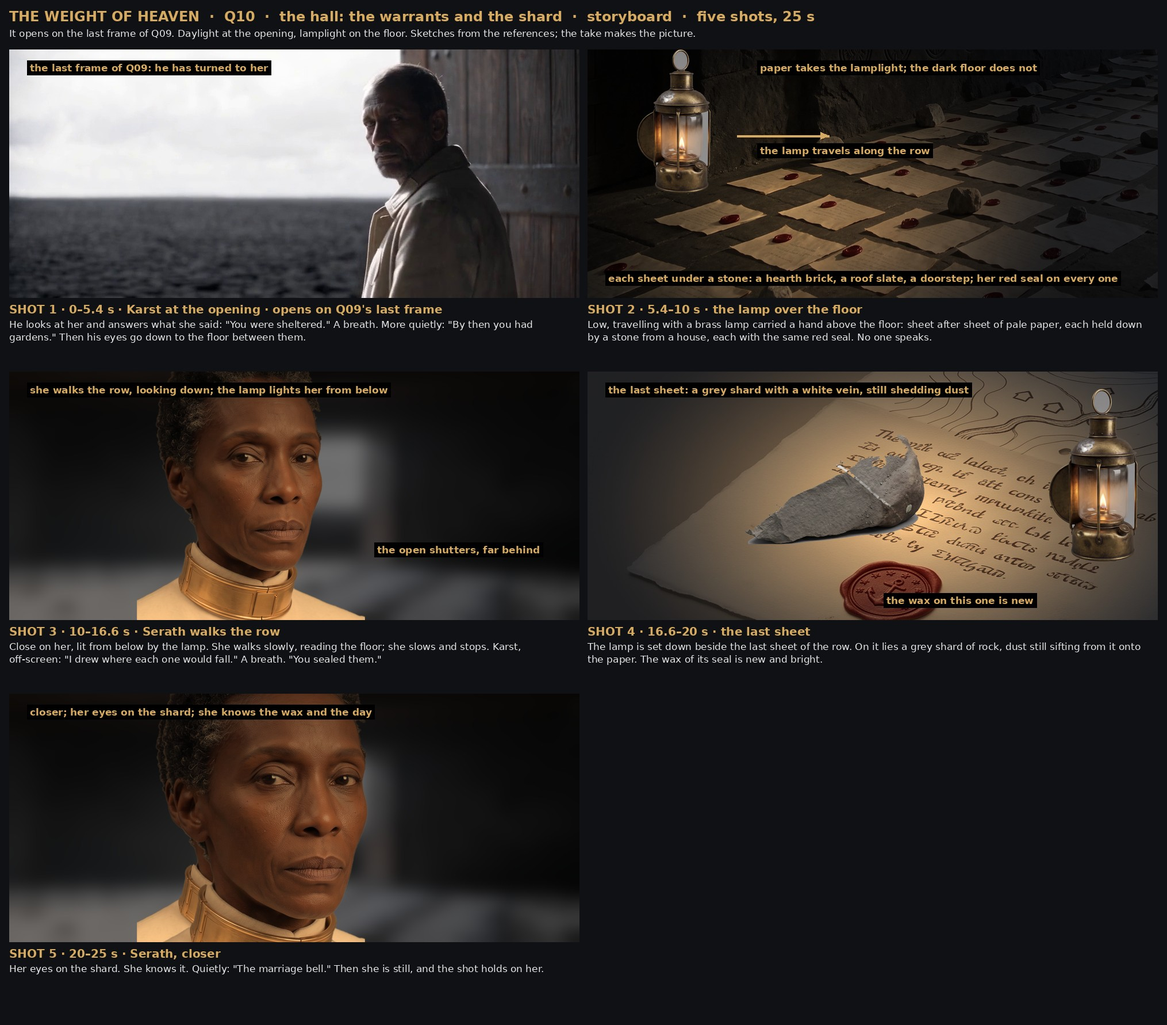
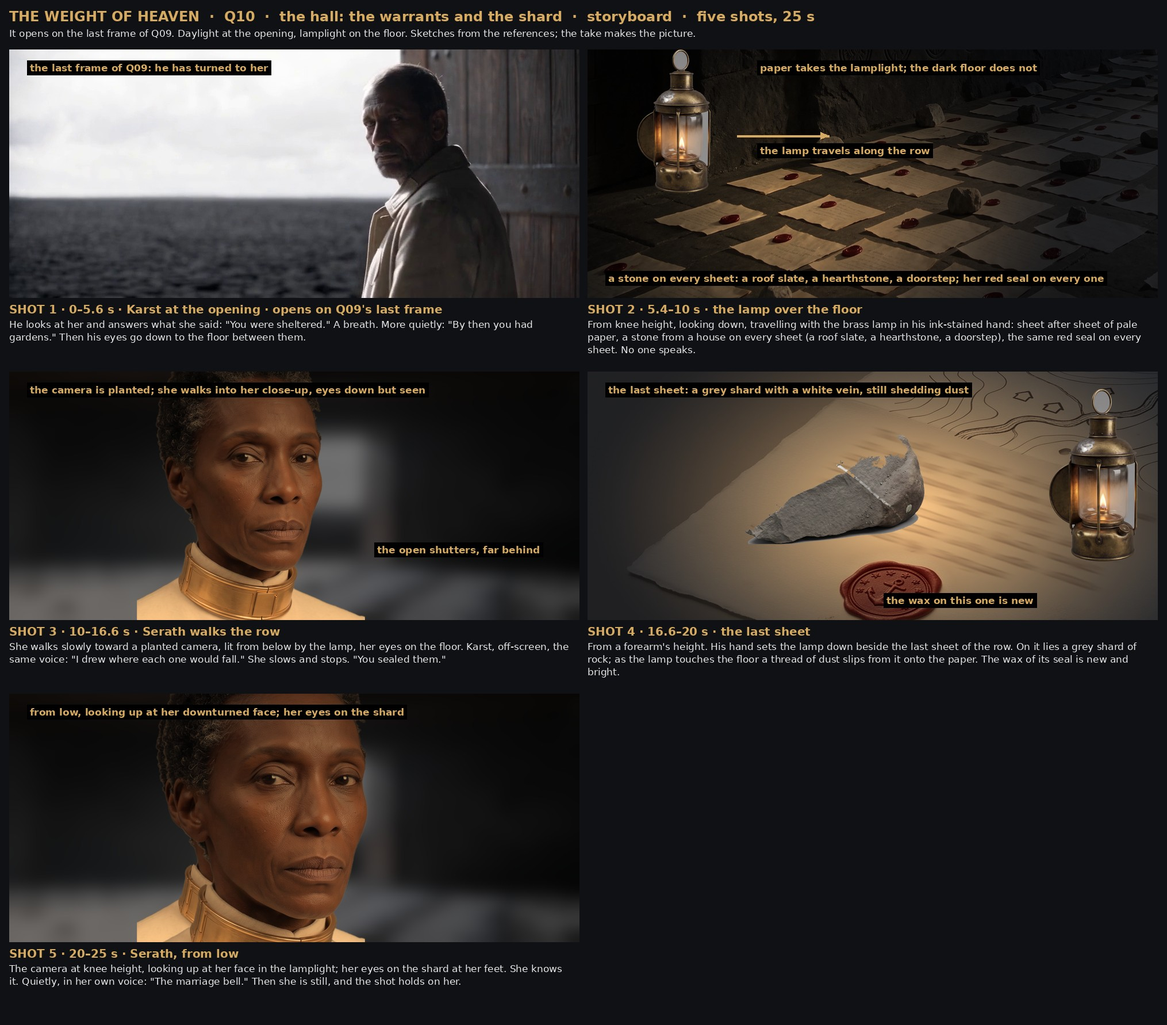
The Weight of Heaven: Q10 package revised after an independent review; nothing generated
Her eyes seen from a lower camera in both her shots; the lamplight named apart from the hall's daylight; the lamp
carried where a man can walk with it; the off-screen voice tied to the on-screen one; the warrant's writing softened.

Claude-Session: https://claude.ai/code/session_01Ufmw2p65L6HH4goCKZmAJH

diff --git a/ai-film/the-weight-of-heaven/tools/board_q10.py b/ai-film/the-weight-of-heaven/tools/board_q10.py
@@ -20,7 +20,7 @@ img, arr, note, arrow, GOLD, INK, PAPER, BOLD, REG = b4.img, b4.arr, b4.note, b4
 part, key = b8.part, b8.key
 HALL = 'refs/relit/ENV_E09_treaty-house-hall_plain.jpg'
 FIRST = 'refs/frames/Q10_open_q09_last.jpg'
-LAMP, PAGE, STONES, SHARD = ('refs/crops/PROP_P09_karsts-lamp_hero.jpg', 'refs/crops/PROP_P04_lifting-warrant_hero.jpg',
+LAMP, PAGE, STONES, SHARD = ('refs/crops/PROP_P09_karsts-lamp_hero.jpg', 'refs/crops/PROP_P04_lifting-warrant_hero_soft.jpg',
                              'refs/crops/PROP_P14_warrant-stones_hero.jpg', 'refs/crops/PROP_P05_the-shard_hero.jpg')
 WARM = np.array([1.0, 0.80, 0.55], np.float32)
 yy, xx = np.mgrid[0:H, 0:W].astype(np.float32)
@@ -70,7 +70,7 @@ def main():
     c2 = img(a); d = ImageDraw.Draw(c2)
     note(d, (300, 22), 'paper takes the lamplight; the dark floor does not')
     arrow(d, (260, 150), (420, 150), w=4); note(d, (300, 166), 'the lamp travels along the row')
-    note(d, (36, 388), 'each sheet under a stone: a hearth brick, a roof slate, a doorstep; her red seal on every one')
+    note(d, (36, 388), 'a stone on every sheet: a roof slate, a hearthstone, a doorstep; her red seal on every one')
     # 3. Serath, lit from below
     bg = b4.blur(part(HALL, (0.60, 0.10, 0.90, 0.75), (W, H)), 14) * 0.45
     f = face.copy(); h = f.shape[0]
@@ -78,7 +78,7 @@ def main():
     f[..., :3] = np.clip(f[..., :3] * grad * WARM * 1.05, 0, 1)
     a = b4.over(bg, f, cx=420, foot=H + 150, height=H * 1.5)
     c3 = img(a); d = ImageDraw.Draw(c3)
-    note(d, (36, 22), 'she walks the row, looking down; the lamp lights her from below')
+    note(d, (36, 22), 'the camera is planted; she walks into her close-up, eyes down but seen')
     note(d, (640, 300), 'the open shutters, far behind')
     # 4. the shard on the last sheet
     pg = part(PAGE, (0.05, 0.25, 0.95, 0.98), (W, H))
@@ -92,30 +92,30 @@ def main():
     f = face.copy(); f[..., :3] = np.clip(f[..., :3] * grad * WARM * 1.05, 0, 1)
     a = b4.over(bg.copy(), f, cx=470, foot=H + 250, height=H * 1.85)
     c5 = img(a); d = ImageDraw.Draw(c5)
-    note(d, (36, 22), 'closer; her eyes on the shard; she knows the wax and the day')
+    note(d, (36, 22), 'from low, looking up at her downturned face; her eyes on the shard')
     cells = [
-        (c1, 'SHOT 1 · 0–5.4 s · Karst at the opening · opens on Q09\'s last frame',
+        (c1, 'SHOT 1 · 0–5.6 s · Karst at the opening · opens on Q09\'s last frame',
          'He looks at her and answers what she said: "You were sheltered." A breath. More quietly: "By then you had gardens." Then his eyes go down to the floor between them.'),
         (c2, 'SHOT 2 · 5.4–10 s · the lamp over the floor',
-         'Low, travelling with a brass lamp carried a hand above the floor: sheet after sheet of pale paper, each held down by a stone from a house, each with the same red seal. No one speaks.'),
+         'From knee height, looking down, travelling with the brass lamp in his ink-stained hand: sheet after sheet of pale paper, a stone from a house on every sheet (a roof slate, a hearthstone, a doorstep), the same red seal on every sheet. No one speaks.'),
         (c3, 'SHOT 3 · 10–16.6 s · Serath walks the row',
-         'Close on her, lit from below by the lamp. She walks slowly, reading the floor; she slows and stops. Karst, off-screen: "I drew where each one would fall." A breath. "You sealed them."'),
+         'She walks slowly toward a planted camera, lit from below by the lamp, her eyes on the floor. Karst, off-screen, the same voice: "I drew where each one would fall." She slows and stops. "You sealed them."'),
         (c4, 'SHOT 4 · 16.6–20 s · the last sheet',
-         'The lamp is set down beside the last sheet of the row. On it lies a grey shard of rock, dust still sifting from it onto the paper. The wax of its seal is new and bright.'),
-        (c5, 'SHOT 5 · 20–25 s · Serath, closer',
-         'Her eyes on the shard. She knows it. Quietly: "The marriage bell." Then she is still, and the shot holds on her.'),
+         'From a forearm\'s height. His hand sets the lamp down beside the last sheet of the row. On it lies a grey shard of rock; as the lamp touches the floor a thread of dust slips from it onto the paper. The wax of its seal is new and bright.'),
+        (c5, 'SHOT 5 · 20–25 s · Serath, from low',
+         'The camera at knee height, looking up at her face in the lamplight; her eyes on the shard at her feet. She knows it. Quietly, in her own voice: "The marriage bell." Then she is still, and the shot holds on her.'),
     ]
     sheet(cells, P('design/boards/Q10_board.jpg'))
 
     f1 = ImageFont.truetype(BOLD, 18); f2 = ImageFont.truetype(REG, 15)
-    refs = [(FIRST, '@Image 1 · first frame', 'The last frame of Q09 take 1: shot 1 opens on it'),
-            ('refs/relit/ENV_E09_treaty-house-hall_lamp.jpg', '@Image 2 · the hall, shutters open', 'The approved hall, relit here (free): daylight only at the opening'),
+    refs = [(FIRST, '@Image 1 · first frame', 'The last frame of Q09 take 1'),
+            ('refs/relit/ENV_E09_treaty-house-hall_lamp.jpg', '@Image 2 · the hall, shutters open', 'The approved hall, relit here (free)'),
             ('refs/CHAR_C01_serath.jpg', '@Image 3 · SERATH', 'Approved sheet'),
             ('refs/CHAR_C02_karst.jpg', '@Image 4 · KARST', 'Approved sheet'),
-            (LAMP, '@Image 5 · Karst\'s lamp', 'From the approved prop sheet, its main view'),
-            (PAGE, '@Image 6 · a lifting warrant', 'From the approved prop sheet, its main view'),
-            (STONES, '@Image 7 · the stones', 'A hearth brick, a roof slate, a doorstep: from the approved sheet'),
-            (SHARD, '@Image 8 · the shard', 'From the approved prop sheet, its main view')]
+            (LAMP, '@Image 5 · Karst\'s lamp', 'Approved sheet\'s main view'),
+            (PAGE, '@Image 6 · a lifting warrant', 'Approved sheet\'s main view, its writing softened'),
+            (STONES, '@Image 7 · the stones', 'A hearthstone, a slate, a doorstep (approved)'),
+            (SHARD, '@Image 8 · the shard', 'Approved sheet\'s main view')]
     w, h, pad, cap = 470, 260, 14, 52
     S = Image.new('RGB', (pad + 4 * (w + pad), pad + 2 * (h + cap) + pad), INK); d = ImageDraw.Draw(S)
     for k, (path, title, text) in enumerate(refs):

diff --git a/ai-film/the-weight-of-heaven/tools/soften_warrant_writing.py b/ai-film/the-weight-of-heaven/tools/soften_warrant_writing.py
@@ -1,0 +1,41 @@
+#!/usr/bin/env python3
+"""The lifting warrant's main view with its handwriting softened to faint strokes. A local edit; nothing generated.
+
+    /root/leonxlnx/earshot/.venv/bin/python tools/soften_warrant_writing.py
+        ->  refs/crops/PROP_P04_lifting-warrant_hero_soft.jpg
+
+In the approved sheet's main view the writing is the largest thing on the page, sharp, and in letters that can nearly
+be read ("The", "iron", "by"). A reference beats the words that contradict it, Q09 came back with Latin-looking letters
+on the treaty slab, and Q10 has a close view of one of these sheets. The band of writing is blurred along its own lines
+until no letter has a shape; the paper, the small map and the red wax are untouched. The approved file is not changed.
+"""
+import os
+import numpy as np
+from PIL import Image, ImageDraw
+from scipy import ndimage
+
+HERE = os.path.dirname(os.path.dirname(os.path.abspath(__file__)))
+P = lambda *a: os.path.join(HERE, *a)
+ANGLE = 21.5                                   # the slope of the lines of writing in this view, degrees (down to the right)
+
+
+def main():
+    im = Image.open(P('refs/crops/PROP_P04_lifting-warrant_hero.jpg')).convert('RGB'); W, H = im.size
+    a = np.asarray(im).astype(np.float32) / 255
+    r = np.asarray(im.rotate(ANGLE, resample=Image.BICUBIC, expand=True)).astype(np.float32) / 255      # the lines made level
+    r = ndimage.gaussian_filter(r, (1.2, 9, 0))                                                          # smeared along themselves
+    back = Image.fromarray((np.clip(r, 0, 1) * 255).astype(np.uint8)).rotate(-ANGLE, resample=Image.BICUBIC, expand=True)
+    bw, bh = back.size; back = np.asarray(back.crop(((bw - W) // 2, (bh - H) // 2, (bw - W) // 2 + W, (bh - H) // 2 + H))).astype(np.float32) / 255
+    m = Image.new('L', (W, H), 0); d = ImageDraw.Draw(m)
+    d.polygon([(395, 262), (470, 250), (880, 405), (800, 600), (590, 585), (350, 500), (340, 380)], fill=255)   # the band of writing
+    d.ellipse((392, 505, 568, 640), fill=0)                                                              # not the wax
+    m = ndimage.gaussian_filter(np.asarray(m).astype(np.float32) / 255, 5)[..., None]
+    paper = ndimage.gaussian_filter(a, (25, 25, 0))
+    soft = back * 0.62 + paper * 0.38                                                                    # and a little fainter
+    out = a * (1 - m) + soft * m
+    dst = P('refs/crops/PROP_P04_lifting-warrant_hero_soft.jpg')
+    Image.fromarray((np.clip(out, 0, 1) * 255 + 0.5).astype(np.uint8)).save(dst, quality=95); print('wrote', os.path.relpath(dst, HERE), (W, H))
+
+
+if __name__ == '__main__':
+    main()

diff --git a/ai-film/the-weight-of-heaven/edit/reviews/Q10_v1_prompt_review.md b/ai-film/the-weight-of-heaven/edit/reviews/Q10_v1_prompt_review.md
@@ -1,0 +1,99 @@
+# Q10 v1: independent review of the prompt before it is paid for
+
+27 November. The same outside reader as for Q09. Read: `prompts/sent/Q10_v1.txt`, its eight references at full size, the board, the package page, scene 7 of the screenplay, Q09's take table, lessons 144 and 145, the shot list's rows for Q10 and Q11, the note in `tools/plate_e09_lamp.py`. Looked at eight frames of Q09 take 1; measured the first frame and the lamp plate. Nothing generated; no file changed but this one.
+
+Verdict: **not as it stands; send after findings 1 to 5.** Findings 6 to 9 are small and free.
+
+## Findings, most serious first
+
+**1. Her eyes are never seen, and her stopping cannot be seen: shots 3 and 5, the 11.6 s of the take that are on her face.**
+The words: shot 3 [CAM] "at her eye height … the camera moves slowly backward in front of her as she walks, at her pace, and stops when she stops"; [BLOCK] "her head bowed a little, her eyes down on the papers at her feet, below the frame"; [ACT] "her eyes in soft shadow". Shot 5 [CAM] "at her eye height, a little closer than shot 3"; [BLOCK] "her head bowed, her eyes down on the shard, below the frame".
+Why: a level camera at eye height, looking at a bowed head, sees lids. Q05 shot 4 came back with "the lids … nearly shut"; Q06 shot 4's bow is closed eyes. Both of Karst's hard lines and the last five seconds would play on a face with its eyes shut; the board's two frames of her (the sheet's face, eyes on the lens) cannot be what comes back. A camera that retreats at her pace holds a head and shoulders steady against black, so walking, slowing and stopping, the one visible effect of "I drew…", leave nothing to see. Shot 5 is shot 3 again a little closer (15) and is the weakest picture of the five. And the camera moves in two shots of five, below, where the film plants it (Q08.md).
+Replace shot 3 with:
+- [CAM] "85 mm, at the height of her chest, tilted up a little, so that her lowered eyes are seen under her brow; shallow focus, held on her face as she comes; the camera is planted and holds still. Behind her, far off and out of focus, at the right of the frame, the open shutters: a small pale shape in the dark."
+- [BLOCK] "Serath alone in the frame, in the centre, facing us. At the first frame she is three paces away, seen from the waist up; when she stops she is head and shoulders in the frame, the gold collar at her throat. Her head is bowed a little; her eyes are open, on the papers beside her feet, below the frame, and never come up to the lens."
+- [ACT] "The lamp is carried beside her, off-screen, at the height of a knee, at the right of the frame, and comes with her. Its light reaches her from below and from the right, warm on her chin, mouth and cheek, and a softer glow comes up off the pale papers; her open eyes catch it. Her mouth is closed from the first frame to the last. From the first frame she walks slowly toward us, her eyes going from sheet to sheet. On her second step a man's voice begins, close, off-screen at the right of the frame, beside the lamp: Karst's. At his first words she slows; by 13.6 s she has stopped. Once she has stopped he says the second thing, more quietly. Her eyes hold on the sheet at her feet; she breathes in once through her nose and is still to the cut."
+- [DIALOGUE] `KARST again, off-screen at the right, the same voice as in shot 1, as close and as dry (on her second step; 11.2 to 13.4 s): "I drew where each one would fall." — dry, level, a plain fact. Then (once she has stopped; 14.2 to 15.4 s): "You sealed them." — quieter; flat.`
+Replace shot 5 with:
+- [CAM] "close-up, 85 mm, from low: the camera is at the height of her knee, a pace from her and a little to her left, tilted up at her face; shallow focus; it holds still. Above and behind her only the dark of the hall."
+- [BLOCK] "Serath alone in the frame, from the collar up, in the centre, standing over the last sheet, her face three-quarters to us and turned down. Her eyes are open and seen from below, on the shard, which lies at her feet, below the bottom edge of the frame; they never meet the lens."
+- [ACT] "The lamp stands on the paving below the frame, at the right: its light comes up over her whole downturned face, warm and steady, brightest on her chin and mouth, with a softer glow off the pale paper; her hair and the hall above her are dark. From the first frame to 21.2 s nothing moves and her mouth is closed: she looks at the shard and knows it. Then she says it, quietly, without lifting her eyes: her lips part only a little and her brow does not move. Her mouth closes and stays closed. She does not move again, and the shot holds on her to the end."
+- [DIALOGUE] `SERATH (once she has looked for a second; 21.2 to 22.6 s): "The marriage bell." — quiet but fully voiced, her own low alto, not a whisper; level, almost nothing in it.`
+With shot 5 looking up at her, the shutters are no longer behind her there: in MOVIE COLOR, "far behind, the open shutters are a small pale shape, out of focus" becomes "in shot 3, far behind her, the open shutters are a small pale shape, out of focus".
+
+**2. Lamplight is asked of a take in which no image shows it, and three places speak against it.**
+The words: References, "@Image 2 — environment: the hall of the Treaty House with its shutters open, the place and its light"; the lock, "The hall exactly as @Image 2, and lit exactly as @Image 2"; PRIORITY, "Shots 2 to 5 lit by the lamp alone".
+Why: a take wears its reference's light (41, 44). Both images that carry light here are cool daylight, and the plate's own note says "No lamp is in the picture". The plate is right where it matters (measured: the floor at the slab's foot at level 24, its papers up to 37, the slab 17; the pool by the opening 118 to 247), so it will not fight a low key. But "lit exactly as @Image 2" makes cool daylight the light of every shot, and "by the lamp alone" contradicts the daylight asked for behind her. Lesson 145: name each reference for its part. Also, Q09 left her in raking daylight at this slab, and here the same slab is in shadow: say that the row lies deeper in.
+Replace with:
+- References: "@Image 1 — first frame of shot 1, and of shot 1 only: Karst at the open shutters, the last frame of the sequence before · @Image 2 — environment: the hall with its shutters open: the place for shots 2 to 5, and its daylight, which stays at the opening"
+- Lock: "The hall exactly as @Image 2, and its daylight exactly as @Image 2: …" and, after "the yard door at the near end", add: "The lamp's light is not in @Image 2; it is added in shots 2 to 5, as MOVIE COLOR says."
+- Lock, where they stand: "In shots 2 to 5 both are deep in the hall, toward the yard door, beyond the reach of the daylight, in an aisle of bare paving beside the row of papers that runs along the foot of the basalt slab. They walk away from the opening, which is far behind them. Serath walks the aisle; Karst walks on her left, the lamp in his right hand, between them."
+- PRIORITY 5: "Shots 2 to 5 low key, lit by the lamp; the daylight stays at the opening, far behind; the papers, the stones and the shard as their references"
+My estimate: with a lit lamp in the frame in shots 2 and 4 the model will give its glow; the likely miss is a wider pool and a greyer hall than written, which a grade can take down. A daylit floor could not be mended.
+
+**3. Shot 2: the camera cannot see what the shot is for, the lamp is carried where a walking man cannot carry it, and nothing says which way the shot looks.**
+The words: [CAM] "a hand's height above the floor, looking along a row of papers"; [BLOCK] "carries the brass lamp by its ring, a hand's width above the paving".
+Why: from a hand's height the sheets lie edge-on: no map, no writing, no wax mark can be read (43: a camera level with the rim of a bowl cannot see rings on the water). A lamp hung by its ring a hand's width off the floor puts his hand a forearm above the paving: he would walk bent double, and in shot 3 he walks upright beside her. The plate looks at the opening, so an undirected shot will put the bright opening behind the lamp, against "beyond it the hall is near black". The slate is the only one of the three stones that reads as a piece of a house at 992 × 432; it should come first.
+Replace with:
+- [CAM] "low travelling shot, 35 mm, at the height of a knee, tilted down so that the frame holds only the floor, three or four sheets deep; the camera travels forward along the row, away from the opening, at the pace of a slow walk, level and steady, with the lamp: the lamp stays at the left of the frame and the sheets come toward us and pass out under the bottom edge; deep focus. Exposed for the lamplight on the paper; outside its pool the floor is near black."
+- [BLOCK] "At the left of the frame Karst's right hand, ink on its fingers, carries the brass lamp by its ring at the full reach of his lowered arm, the lamp's foot at the height of his knee; only his hand, his pale cuff and the lamp are seen. The rest of the frame is the floor: the row of pale papers, a single stone lying on every sheet, dark paving between."
+- [ACT]: "first the grey roof slate with its nail hole, then the soot-blackened hearthstone, then the worn corner of a doorstep".
+
+**4. Speech: the windows are right and the plan is right; four wordings are not.**
+
+| Phrase | Syllables | Window | Asked | Measured |
+| --- | --- | --- | --- | --- |
+| "You were sheltered." | 4 | 1.4 s | 2.9 /s | Karst 3.2 to 3.5 (Q08B t2), 3.2 to 4.2 (Q09) |
+| "By then you had gardens." | 6 | 2.0 s | 3.0 /s | |
+| "I drew where each one would fall." | 7 | 2.2 s | 3.2 /s | |
+| "You sealed them." | 3 | 1.2 s | 2.5 /s | |
+| "The marriage bell." | 4 | 1.4 s | 2.9 /s | Serath, "We were chosen.": 4 in 0.7 s (Q09) |
+
+Twenty-four syllables in 25 s (Q09 had about 49); no window is under the measured pace.
+- Karst off-screen. Her mouth is safe: a man's voice over Serath's closed mouth held twice (Q05 shot 4, Q06 shot 1) with the wording used here. What is not safe is whose voice it is. Off-screen lines have come back in another voice three times: Q05 (149 Hz off-screen against 110 on), Q06 ("two different men"), Q09 (her line on her back, taken for a man's). The package's "his four phrases will be one voice" is not borne out. "KARST, off-screen, close, a man's voice" does not tie him to shot 1. Replaced in finding 1; and add to AUDIO LOCKS: "Karst's voice in shot 3 is the voice of shot 1."
+- The cues in shot 3 turn in a circle or cannot be seen (74): "(as she slows; …)" beside "As Karst's voice begins … she slows", and "(after a breath; …)" from a man who is not in the frame. Replaced in finding 1: his voice is the cause, her stop the effect, and the second phrase waits for the stop.
+- "The marriage bell.": one sentence, alone in the last shot, ending 2.4 s before the end, after a still second given in seconds: the form that held in Q04 and Q05, and even Q05's slide of 1.6 s would leave it whole. The risk is the manner. "barely aloud" and "very quiet, level, almost nothing in the voice" ask for what Q09 gave "until the fire is stone.": 9 dB down and in a breathy voice that listeners took for a man's; and this is her only line in the take, so nothing else sets her voice. Her short line in Q09 also came with "her brows go up and her mouth opens wide". Replaced in finding 1.
+- "flat and falling" stands in the same line as "…would fall." (shot 3) and after "…gardens." (shot 1). Q09's invented sentence took "always" from the directions. Both become "flat" (shot 3 in finding 1; shot 1: "— quieter; flat.").
+
+**5. The first frame is sound to open on; one thing in it works against the words.**
+The words: "At the first frame his eyes are on her, off-screen past the left side of the camera, never on the lens, and his mouth is closed. For two thirds of a second nothing moves."
+Why: in the frame his eyes come within a little of the lens, and a first frame is obeyed as it is (51). Ten syllables would be said almost to the camera by a man in a doorway, which is the picture the author refused in Q08 (139).
+Replace with: "At the first frame he is exactly as @Image 1 has him, his mouth closed. From the first frame to 0.8 s his eyes move a little further to the left of the frame and settle on her, off-screen beyond its left edge, clear of the lens; nothing else moves."
+The rest of shot 1 agrees with the frame: the shutter's edge at the right, his head over his left shoulder, the right third, the closed mouth. The frame has no fault to copy. Expect the usual re-frame of about 20 px at the join (88).
+
+**6. The warrant's writing will come back as letters.**
+The words: Props, "under that some lines of handwriting too small and soft to read"; shot 4, "its soft lines of writing".
+Why: in `PROP_P04_lifting-warrant_hero.jpg` the writing is the largest thing on the sheet, sharp, and Latin: it begins "The", and "iron", "cons" and "by" can be picked out. A reference beats the words that contradict it (12), the board's shot 4 already shows it large, and Q09 came back with K, S, U, H on the slab. Shot 4 is a macro of this sheet, in a film about an order nobody read.
+Replace: soften the band of writing in the crop itself (free, local) until it is thin faint strokes with no letter shapes, and keep the map and the wax mark as they are. If the crop is left, finding 7's lower angle is the only protection.
+
+**7. Shot 4: the lamp is set down too fast, the dust has no cause and no size, and the angle is the same edge-on one.**
+The words: [CAM] "low and oblique, a hand's height above the floor"; "By 17.2 s the lamp stands on the paving and his hand has gone out of the frame."; "Fine grey dust sifts slowly from the shard onto the pale paper round it and lies there; a few grains roll and stop."
+Why: 0.6 s for a hand to set a lamp down and leave (1). A stone lying still sheds nothing; a small motion with no stated size came back as none (78), and a motion wants a cause (26). From a hand's height the wax mark she "knows" is a red line.
+Replace with:
+- [CAM] "close insert, 100 mm macro, from a forearm's height above the floor, on the same side as shots 3 and 5, looking down at the sheet at a shallow angle, so that the shard stands up from the paper and the wax mark is seen as a round; shallow focus on the shard and the wax mark; the camera holds still. Exposed for the lamplight on the paper."
+- [BLOCK], last sentence: "At the right edge of the frame, at the first frame, Karst's right hand is lowering the brass lamp by its ring, its foot a finger's width above the paving."
+- [ACT] "By 17.4 s the lamp stands on the paving and his hand has gone out of the frame. As its foot touches the paving beside the sheet, a little grey dust slips from the upper edge of the shard: a thin thread of it, a finger long, runs down onto the pale paper for a second; then a few single grains roll and stop. The warm light is steady on the sheet and the shard. Nothing else moves."
+
+**8. Words that will be drawn or acted; small contradictions; things missing from the locks.**
+- SCENE INTENT, "every sheet is an order of her kingdom to lift something heavy into the sky, every sheet carries her own mark in red wax, and on every sheet lies a stone from a house that was crushed when that weight came down somewhere else" (52: an intent line staged literally, with a sky in shot 1) → "every sheet is an order of her kingdom, every sheet carries her own mark in red wax, and on every sheet lies a stone from a house that the order destroyed".
+- "hearth brick" (three times): `PROP_P14` shows a rough soot-blackened block, not a brick; word and image disagree. → "hearthstone" ("stone" is not spoken in this take).
+- Props, "From shot 2 on he carries it in his right hand" against shot 4 → "In shots 2 and 3 he carries it in his right hand, low, at the full reach of his arm; in shot 4 he sets it down on the paving, where it stays."
+- MOVIE COLOR, "The red of the wax and the gold of Serath's collar are the only strong colours." beside an amber lamp → "Apart from the lamp's amber, the red of the wax and the gold of Serath's collar are the only strong colours."
+- Her hair came back "greyer and flatter" in Q09 shot 4, and here she has two close shots from the sheet alone. In the identity lock: "short, tightly curled black hair going grey, as on her sheet, the same in both her shots".
+- Karst's inked hand: the sheet inks his left, the shot list his right; shot 2 is the first close view of a hand of his, and it is the right. The lamp cannot change hands (see below). For the author to settle before this take, not after.
+- The board says shot 1 ends at 5.4 s; the prompt and the package say 5.6 (129).
+
+**9. The cut, as asked: sound; I would not cut the take differently.** The two lost lines go first, in the form that gave Karst's lines word for word twice in Q08B (a sentence, a breath out, a quieter sentence, no movement between), on the frame the film already ends on. If they fail again, shot 1 is separable and a 6 s pickup mends it, so splitting the take buys nothing. "Ninety tons…" at the head of Q11 is right by lesson 144, and the hold after her three words wants silence. One thing to carry to Q11: a line over a take's first frame starts at once (107).
+
+## Checked and found sound
+
+- Left and right, once shot 2's direction is written. Serath in the aisle, Karst on her left with the lamp in his right hand: the lamp is at the left when we travel with them (shot 2) and at the right when we face them (shots 3, 4, 5); his voice comes from the right; the opening, in the middle of the end wall, is behind her on the right, as in the plate's own view.
+- A first frame in one light did not colour the next shot in Q08A take 2 (the valley frame, then the yard as approved, dark); with @Image 1 named for shot 1 only, the daylight frame should not light shots 2 to 5.
+- No content word of a line stands in the directions apart from "falling" (finding 4) and the two voice paragraphs; "seal", "draw" and "each" are avoided throughout (by script).
+- The prop crops: no label or lettering in the lamp, the stones or the shard; all four are on grey, and the negative for that is there. The lamp's reflector disc and the bare patch on its dome, the shard's white vein and its lichen spot are the designs (127). A hand is in the frame with the lamp in shots 2 and 4 and the sheet is under the shard, so each has its scale (20).
+- Story: the thing is seen before its name. A viewer who has seen the film has what he needs: the red mark on every sheet, "You sealed them." on her face, the last sheet, her three words. What may not read is that the stones are pieces of houses.
+- The template: every section of Q09's prompt, in the same order, seven tagged lines to a shot; 15,634 characters; the shots sum to 25.0 s.
+
+Untested and still so after these changes: lamplight from words alone; eight references in one take (seven is the most that has held); a planted shot in which she walks into her own close-up.
+
+**Would I send it: not as written; yes after findings 1 to 5, with 6 (the crop) made first because it is free.**

diff --git a/ai-film/the-weight-of-heaven/prompts/Q10.md b/ai-film/the-weight-of-heaven/prompts/Q10.md
@@ -1,6 +1,6 @@
 # Q10 — The hall: the warrants and the shard · "You sealed them" · "The marriage bell" (B18, B19)
 
-**v1 · images only, the author's AUTEUR VIDEO PROMPT as it will be sent.** Seedance 2.5 on fal, task `reference`, 21:9, 480p, sound on. Scene 7 of the screenplay: lines L16b to L19 (Karst's two lines lost from Q09, then L18 and L19). **Status: package built on the author's word (27 November): "Continue the next scene...". An independent review is under way (`edit/reviews/Q10_v1_prompt_review.md`). Nothing generated. Waiting for the author's go.**
+**v1 · images only, the author's AUTEUR VIDEO PROMPT as it will be sent.** Seedance 2.5 on fal, task `reference`, 21:9, 480p, sound on. Scene 7 of the screenplay: lines L16b to L19 (Karst's two lines lost from Q09, then L18 and L19). **Status: package built on the author's word (27 November): "Continue the next scene..."; revised after an independent review (`edit/reviews/Q10_v1_prompt_review.md`: "not as it stands; send after findings 1 to 5"; all nine findings taken). Nothing generated. Waiting for the author's go.**
 
 Q10 follows Q09 directly and opens on its last frame. Q11 is the glove off and "I did not read it".
 
@@ -29,11 +29,29 @@ Q10 follows Q09 directly and opens on its last frame. Q11 is the glove off and "
 
 | Shot | Time | Picture | Line |
 | --- | --- | --- | --- |
-| 1 | 0–5.6 s | Karst at the opening, exactly Q09's last frame: his face three-quarters to us, dark against the sky. He answers her; then his eyes go down to the floor | "You were sheltered." … "By then you had gardens." |
-| 2 | 5.6–10 s | Low, travelling with the brass lamp in his ink-stained hand, a hand's width above the floor: sheet after sheet, a stone on every one (a hearth brick, a roof slate, a doorstep), the same red mark on every one | none |
-| 3 | 10–16.6 s | Serath close, lit from below by the lamp, walking the row with her eyes down; she slows and stops; the open shutters a small pale shape far behind | Karst, off-screen: "I drew where each one would fall." … "You sealed them." |
-| 4 | 16.6–20 s | The last sheet: the lamp is set down beside it; on it a grey shard with a white vein, dust still sifting from it; its wax new and bright | none |
-| 5 | 20–25 s | Serath, closer, her eyes on the shard; she knows it; then a hold | "The marriage bell." |
+| 1 | 0–5.6 s | Karst at the opening, exactly Q09's last frame: his face three-quarters to us, dark against the sky. His eyes settle on her; he answers; then his eyes go down to the floor | "You were sheltered." … "By then you had gardens." |
+| 2 | 5.6–10 s | From knee height, looking down, travelling away from the opening with the brass lamp in his ink-stained hand: sheet after sheet, a stone on every sheet (a roof slate, a hearthstone, a doorstep), the same red mark on every sheet | none |
+| 3 | 10–16.6 s | The camera planted at the height of her chest: Serath walks toward it, from the waist up to head and shoulders, lit from below by the lamp, her eyes down but seen; she slows and stops; the open shutters a small pale shape far behind | Karst, off-screen, the voice of shot 1: "I drew where each one would fall." … "You sealed them." |
+| 4 | 16.6–20 s | The last sheet, from a forearm's height: his hand sets the lamp down beside it; on it a grey shard with a white vein; a thread of dust slips from it as the lamp touches the floor; its wax new and bright | none |
+| 5 | 20–25 s | From knee height, looking up at her downturned face in the lamplight; her eyes on the shard; she knows it; then a hold | "The marriage bell." |
+
+## What the independent review changed
+
+| Finding | Change |
+| --- | --- |
+| Shots 3 and 5 were level close-ups of a bowed head: a camera at eye height sees only lids (Q05 and Q06 came back so), and a camera retreating at her pace hides her walk and her stop. Both of Karst's hard lines and the last five seconds would have played on closed eyes | Shot 3: the camera planted at chest height, tilted up; she walks into her own close-up; "her eyes are open ... and never come up to the lens". Shot 5: from knee height, looking up at her downturned face, the lamp below the frame |
+| Lamplight was asked of a take in which no image shows it, and "lit exactly as @Image 2" made cool daylight the light of every shot | The hall reference is named for "the place for shots 2 to 5, and its daylight, which stays at the opening"; "The lamp's light is not in @Image 2; it is added in shots 2 to 5"; they stand "deep in the hall ... beyond the reach of the daylight" |
+| Shot 2 looked along the floor from a hand's height (the sheets edge-on: no map, no mark to be read) with the lamp where a walking man cannot carry it | Knee height, tilted down, the lamp at the full reach of his lowered arm; the shot travels away from the opening; the slate comes first, being the stone that reads as a piece of a house |
+| Off-screen lines have come back in another voice three times (Q05, Q06, Q09) | "KARST again ... the same voice as in shot 1, as close and as dry"; "Karst's voice in shot 3 is the voice of shot 1"; his second phrase waits for her stop, a thing seen |
+| "barely aloud" asks for what Q09 gave "until the fire is stone.": 9 dB down, in a voice taken for a man's | "quiet but fully voiced, her own low alto, not a whisper"; "her lips part only a little and her brow does not move" |
+| In the first frame his eyes come close to the lens | "his eyes move a little further to the left of the frame and settle on her ... clear of the lens" |
+| The warrant's writing is the largest thing on its reference and nearly reads ("The", "iron", "by"); Q09 came back with Latin-looking letters on the slab | The band of writing is softened in a copy of the crop (`tools/soften_warrant_writing.py`); the map and the wax are untouched |
+| Shot 4: 0.6 s to set a lamp down; dust with no cause and no size; the wax edge-on | The hand is already lowering the lamp at the first frame and is gone by 17.4 s; "As its foot touches the paving ... a thin thread of it, a finger long, runs down onto the pale paper"; from a forearm's height, so the wax is a round |
+| Smaller: an intent line that would be staged literally; "hearth brick" for what the reference shows as a rough stone; "flat and falling" beside "…would fall."; her hair | Reworded; "hearthstone"; "flat"; "short, tightly curled black hair going grey, as on her sheet, the same in both her shots" |
+
+Still untested after these changes, by the reviewer's own count: lamplight from words alone; eight references in a take (seven is the most that has held); a planted shot in which she walks into her own close-up.
+
+One thing decided here for want of an answer: Karst's sheet has ink on his left hand and the shot list on his right. The lamp is in his right hand and the prompt says "ink on its fingers"; a draughtsman's hands are both stained. The author can overrule it.
 
 ## Why it is staged this way
 
@@ -43,6 +61,7 @@ Q10 follows Q09 directly and opens on its last frame. Q11 is the glove off and "
 - **Lamplight, not daylight, on the floor.** The shot list: "paper takes the light and basalt does not." The approved hall shows the whole floor in daylight once the shutters are open, and a take wears its reference's light; so the open hall is relit here (free) with the daylight only at the opening, and the rows she walks are in the hall's shadow. The lamp is the first warm light in the film below the kingdom.
 - **The ink on his fingers carries the lamp.** The hand that drew them is the hand that lights them; it is the only part of him in shots 2 and 4.
 - **The shard has its own shot, and she does not touch it yet.** Her bare hand on it is Q11, the hinge of the film.
+- **Her eyes are seen.** She looks down at the floor for most of the take; the camera is put below her eye line, at her chest and then at her knee, so that it looks up into a downturned face lit from below.
 - **The last shot has one sentence and then nothing.** If the hold comes back long it is trimmed; if her line is dropped, the shot alone is a five-second pickup.
 
 ## References, in attach order
@@ -54,7 +73,7 @@ Q10 follows Q09 directly and opens on its last frame. Q11 is the glove off and "
 | @Image 3 | `refs/CHAR_C01_serath.jpg` | Serath |
 | @Image 4 | `refs/CHAR_C02_karst.jpg` | Karst |
 | @Image 5 | `refs/crops/PROP_P09_karsts-lamp_hero.jpg` | His lamp (the approved sheet's main view, without its labels) |
-| @Image 6 | `refs/crops/PROP_P04_lifting-warrant_hero.jpg` | A lifting warrant: the paper, its map, its red wax |
+| @Image 6 | `refs/crops/PROP_P04_lifting-warrant_hero_soft.jpg` | A lifting warrant: the paper, its map, its red wax; its writing softened here |
 | @Image 7 | `refs/crops/PROP_P14_warrant-stones_hero.jpg` | Three of the stones: a hearth brick, a roof slate, a doorstep |
 | @Image 8 | `refs/crops/PROP_P05_the-shard_hero.jpg` | The shard |
 
@@ -66,7 +85,7 @@ No video and no audio reference. No new image has been generated: the hall is th
 python3 tools/fal_run.py --name Q10_t1 --prompt prompts/sent/Q10_v1.txt \
   --image refs/frames/Q10_open_q09_last.jpg --image refs/relit/ENV_E09_treaty-house-hall_lamp.jpg \
   --image refs/CHAR_C01_serath.jpg --image refs/CHAR_C02_karst.jpg \
-  --image refs/crops/PROP_P09_karsts-lamp_hero.jpg --image refs/crops/PROP_P04_lifting-warrant_hero.jpg \
+  --image refs/crops/PROP_P09_karsts-lamp_hero.jpg --image refs/crops/PROP_P04_lifting-warrant_hero_soft.jpg \
   --image refs/crops/PROP_P14_warrant-stones_hero.jpg --image refs/crops/PROP_P05_the-shard_hero.jpg \
   --param task=reference --param duration=25 --param aspect_ratio=21:9 --param draft=true \
   --param generate_audio=true --param return_last_frame=false
@@ -79,7 +98,7 @@ python3 tools/fal_run.py --name Q10_t1 --prompt prompts/sent/Q10_v1.txt \
 | Risk | What protects against it |
 | --- | --- |
 | A line is dropped, merged or invented, as in Q09's last shot | No shot has more than two short phrases; the last has one, with a hold after it; the two lines that were lost are now in the first shot, where lines have come back right |
-| Karst's voice differs from Q09's | Nothing in a prompt holds a voice. Within this take his four phrases will be one voice; against Q09 his one line there ("It was stone within forty years.") is said with his back to us and could be replaced in sound |
+| Karst's voice differs from Q09's, or his off-screen voice in shot 3 differs from his own in shot 1 | Nothing in a prompt holds a voice; off-screen lines have come back in another voice three times. Shot 3's line is tied to shot 1's in three places. His one line in Q09 ("It was stone within forty years.") is said with his back to us and could be replaced in sound |
 | The floor comes back in daylight, as the approved hall has it | The hall reference is relit; the exposure of each shot is written as a decision |
 | The lamp is redrawn (two lamps, a lantern on a pole, a candle) | It has its own reference; "the only flame in the hall" |
 | The stones come back as pebbles | They have a reference and are named one by one as the light reaches them |
